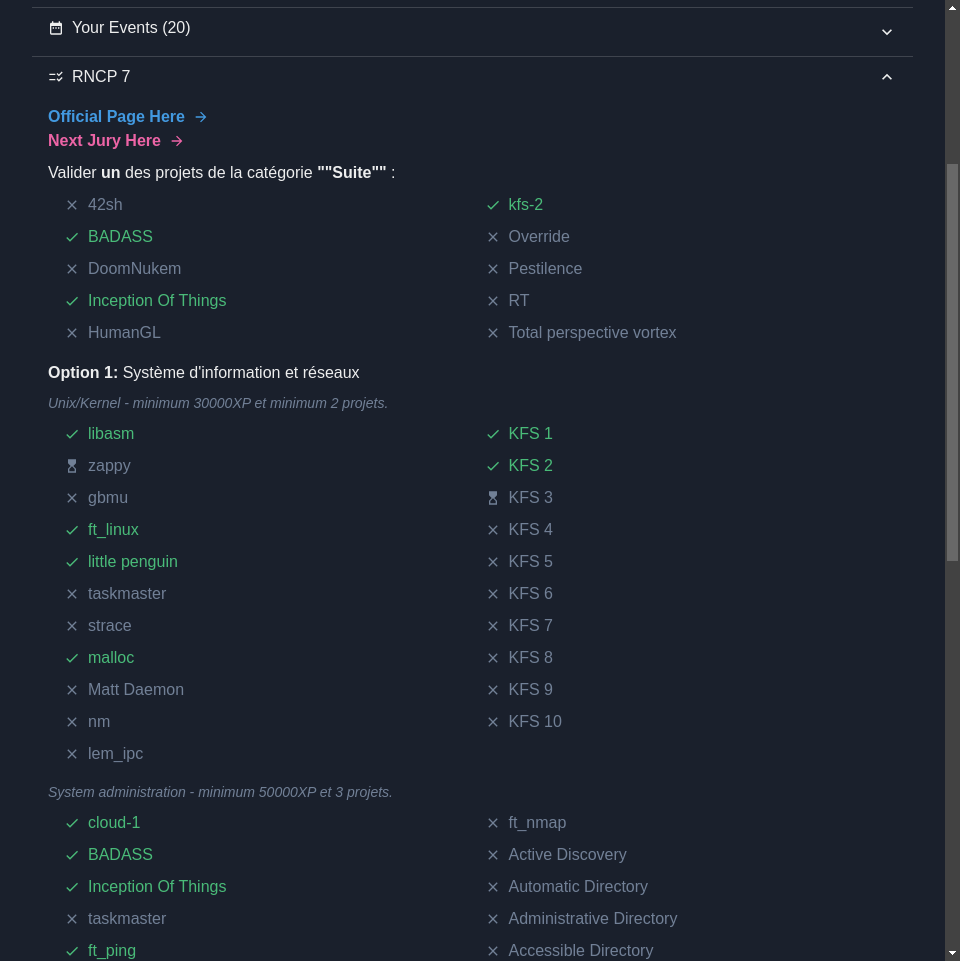
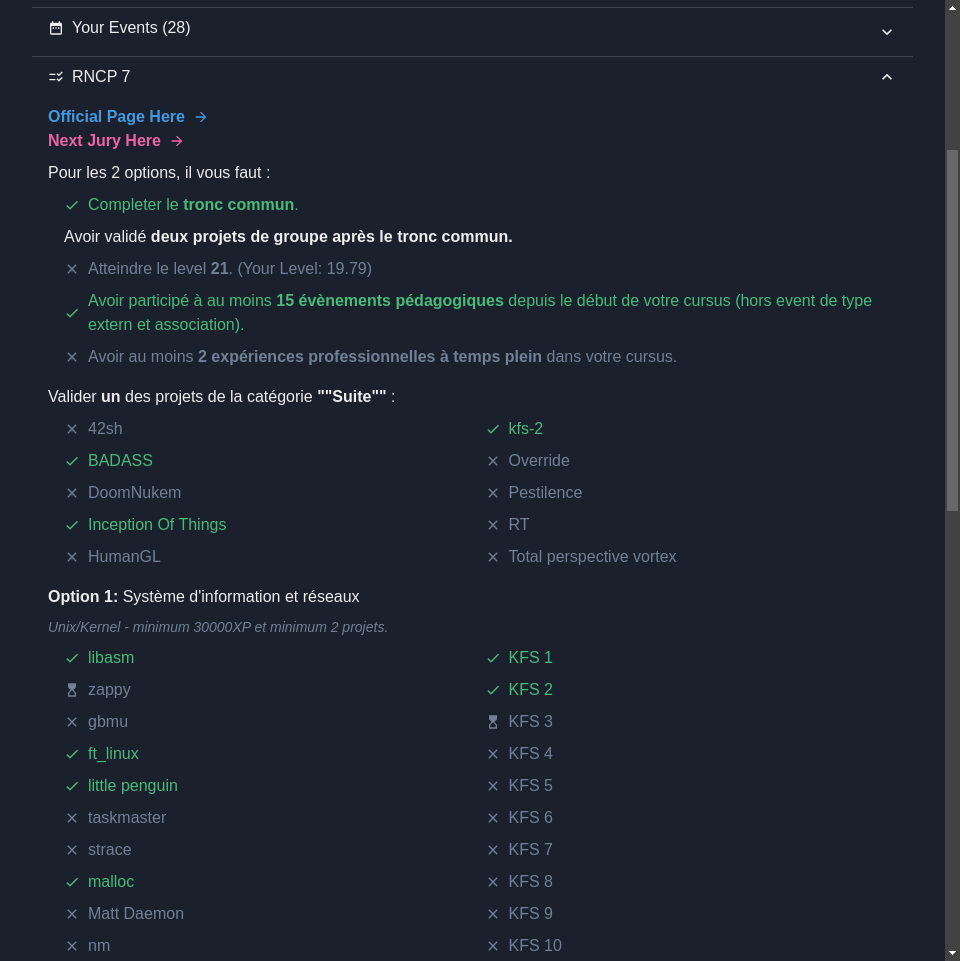
add more checks to rncp 7

diff --git a/frontend/app/src/Home.jsx b/frontend/app/src/Home.jsx
@@ -25,7 +25,8 @@ import {
   FormLabel,
   Link,
   IconButton,
-  useColorMode
+  useColorMode,
+  Grid
 } from '@chakra-ui/react';
 import { 
   MdEmail,
@@ -34,7 +35,9 @@ import {
   MdDateRange,
   MdExplore,
   MdChecklistRtl,
-  MdArrowForward
+  MdArrowForward,
+  MdClear,
+  MdCheck
 } from 'react-icons/md';
 import { FaMoon, FaSun } from 'react-icons/fa';
 
@@ -254,6 +257,32 @@ const Home = () => {
     }
   };
 
+  const numberOfInternship = () => {
+    let n = 0;
+  
+    const projects = [
+      "internship-i",
+      "internship-ii",
+      "42cursus-startup-internship",
+      "apprentissage-1-an",
+      "fr-apprentissage-rncp-7-1-an",
+      "fr-apprentissage-rncp-7-2-ans",
+      "fr-apprentissage-rncp-6-1-an",
+      "fr-apprentissage-rncp-6-2-ans",
+      "42cursus-apprentissage-2-ans-1ere-annee",
+      "apprentissage-2-ans-2eme-annee"
+    ];
+  
+    const statuses = projects.map(slug => {
+      const projectUser = profile.projects_users.find(p => p.project.slug === slug);
+      return projectUser ? projectUser.status : null;
+    });
+  
+    n += statuses.filter(status => status === "finished").length;
+
+    return n;
+  };  
+
   return (
     <Box p={8}>
       <Flex justify="flex-end" align="center" mb={6} position="absolute" top={4} right={4} zIndex="999">
@@ -376,6 +405,28 @@ const Home = () => {
                     <Icon as={MdArrowForward} ml={2} />
                   </Flex>
                 </Link>
+                <Text>Pour les 2 options, il vous faut :</Text>
+                <Grid pl={4}>
+                  <Flex align="center" color={profile.projects_users.find(p => p.project.slug === "ft_transcendence").status == "finished" ? "green.400" : "gray.500" } mb={2}>
+                    <Icon as={profile.projects_users.find(p => p.project.slug === "ft_transcendence")?.status == "finished" ? MdCheck : MdClear } mr={2} />
+                    <Text>Completer le <strong>tronc commun</strong>.</Text>
+                  </Flex>
+                  <Flex align="center" mb={2}>
+                    <Text>Avoir validé <strong>deux projets de groupe après le tronc commun.</strong></Text>
+                  </Flex>
+                  <Flex align="center" color={profile.cursus_users[profile.cursus_users.length - 1].level > 21 ? "green.400" : "gray.500" } mb={2}>
+                    <Icon as={profile.cursus_users[profile.cursus_users.length - 1].level > 21 ? MdCheck : MdClear } mr={2} />
+                    <Text>Atteindre le level <strong>21</strong>. (Your Level: {profile.cursus_users[profile.cursus_users.length - 1].level})</Text>
+                  </Flex>
+                  <Flex align="center" color={filteredEvents.length > 15 ? "green.400" : "gray.500" } mb={2}>
+                    <Icon as={filteredEvents.length > 15 ? MdCheck : MdClear } mr={2} />
+                    <Text>Avoir participé à au moins <strong>15 évènements pédagogiques</strong> depuis le début de votre cursus (hors event de type extern et association).</Text>
+                  </Flex>
+                  <Flex align="center" color={numberOfInternship() > 2 ? "green.400" : "gray.500" } mb={2}>
+                  <Icon as={numberOfInternship() > 2 ? MdCheck : MdClear } mr={2} />
+                    <Text>Avoir au moins <strong>2 expériences professionnelles à temps plein</strong> dans votre cursus.</Text>
+                  </Flex>
+                </Grid>
                 <Text>Valider <strong>un</strong> des projets de la catégorie <strong>""Suite""</strong> :</Text>
                 <ProjectsCheck projects_users={profile.projects_users} projects={suiteProjects} />
                 <Text><strong>Option 1:</strong> Système d'information et réseaux</Text>

diff --git a/frontend/app/src/components/ProjectsCheck.jsx b/frontend/app/src/components/ProjectsCheck.jsx
@@ -38,7 +38,7 @@ const ProjectsCheck = ({ projects_users, projects }) => {
               }
 
               return (
-                <GridItem key={project.slug} rowSpan={1}>
+                <GridItem key={project.name} rowSpan={1}>
                   <Link href={`https://projects.intra.42.fr/projects/${project.slug}`} isExternal>
                     <Flex align="center" color={color} mb={2}>
                       <Icon as={icon} mr={2} />

diff --git a/README.md b/README.md
@@ -11,7 +11,7 @@ My own 42 API front build with FastAPI/Python & React/Vite/Chakra
 
 - Install Docker
 
-- Create your App on [42 intra](https://profile.intra.42.fr/oauth/applications/new), use `http://localhost:8000/auth/callback` as Redirect URI and fill the `.env.example`
+- Create your App on [42 intra](https://profile.intra.42.fr/oauth/applications/new), use `http://localhost:8000/auth/callback` as **Redirect URI** and fill the `.env.example`
 
 ## Usage
 
